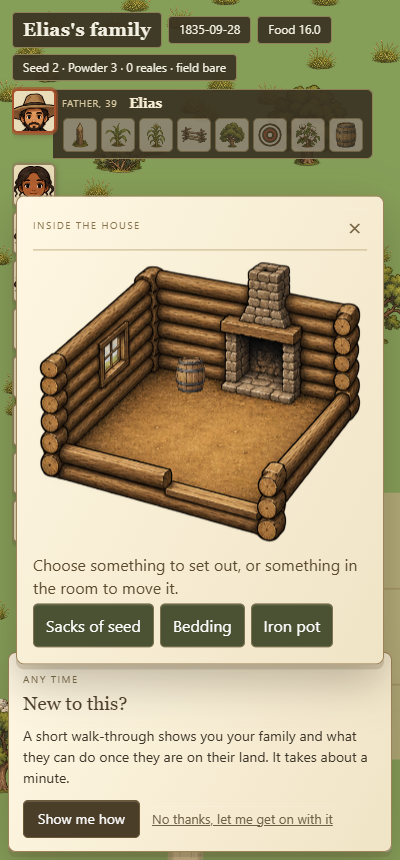
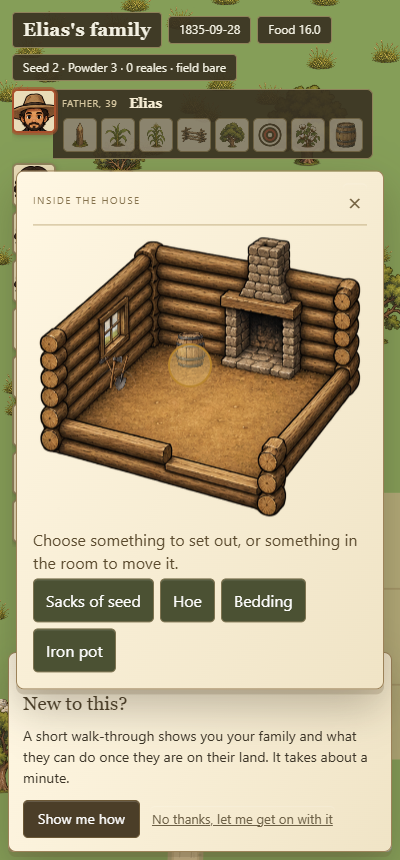
Inside the house: the wagon's tools can be set out, and a saddlebag has its own rooms
The five wagon tools (hoe, felling axe, broadaxe, froe, auger) are offered and placeable,
drawn as the equipment sheet's tools sprite (stand-in). A two-pen plot with no passage is
now a saddlebag interior with ten spots of its own and no passage, drawn on the dog-run's
picture (stand-in). Both listed under Stand-ins in use with a written-out art request.
The browser proof sets the felling axe under the window. No save version moved.

Changed region(s): [[0.03, 0.1814, 0.96, 0.8163]]

diff --git a/public/interior.js b/public/interior.js
@@ -31,7 +31,8 @@ export function renderInterior(root, interior, { title, readOnly = false, send, 
   const stage = el('div', null, 'interior-stage');
   const canvas = el('canvas', null, 'interior-canvas');
   const width = Math.min(640, Math.max(280, (root.clientWidth || 640) - 36));
-  const wide = interior.kind === 'dog-run';
+  // The dog-run's picture is wide; the saddlebag is drawn on it too (stand-in: sim/interior-data.mjs).
+  const wide = room.sprite === 'interior-dog-run';
   // The picture fills the stage's width. It is drawn from its anchor (its feet, off centre), so the anchor is placed where
   // the picture's own box puts it; the spots are fractions of that same box (sim/interior-data.mjs).
   const frame = spriteFrame(room.sprite) || { w: 1, h: wide ? 0.44 : 0.87, anchorX: 0.5, anchorY: 0.93 };

diff --git a/HISTORY.md b/HISTORY.md
@@ -183,7 +183,7 @@ These are design declarations, not historical claims needing an invented citatio
 | **HIST-TEX-046** | DOCUMENTED | **Brazoria stood at Old Town, on the bank, not at the modern town** (map moved 2026-09-16, `scripts/build-colonies-map.mjs`). The 1835 town is Old Town Brazoria, its grid lying square along the Brazos (bearing 133.7°), with Market × Main — the Mills brothers' corner, where their store was built out over the river as the steamboat landing — measured at 29.05593 N, 95.56016 W from two street centrelines; the official point (29.04441, −95.56911) is the modern town about a mile inland. Sources: `docs/town-research/brazoria.md` §2.4, §7.1 (OSM centrelines; the Brazoria Heritage Foundation's account of the Mills store). | The map every class is dealt on; `tests/colonies-map.test.mjs`. |
 | **FIC-GONZ-041** | **FICTIONAL FOR GAMEPLAY** | **The storming of Béxar as built** (2026-09-16, `sim/army.mjs`, `sim/directors.mjs`, `docs/COLONIES.md` §6l). Decided by the owner by multiple choice (§7c). Invented here: that on the morning of December 4 each played volunteer is asked on their own card whether they stay in camp or go home for the winter, and families nobody plays stay about 60 in 100; that each volunteer still in camp is asked whether they go in with Milam (families nobody plays about 40 in 100) and, on December 8, each still at the camp whether they go in with the companies sent from it (about 20 in 100); that a question stays open at least six hours and the calendar slows to the hour while a played family has one open; that the fight is resolved at the white flag, not day by day; each fighter's fate, rolled on its own from the seed at 2 in 100 killed and 8 in 100 wounded (the record's 1.7% and 7–9% of those who went in, `HIST-TEX-042`, rounded), weighted by hidden strength and health, the camp unhurt; the grades of wound (1 in 8 slight, half severe, 3 in 8 dangerous), their mending times (three days, three weeks, two months), a lasting mark on 4 in 10 dangerous wounds and a later death, rolled on its own, for about 15 in 100 of them on December 12 (the record: about 3 of 23 wounds fatal); that there is no limit on how many a class loses, in the fight or of wounds after (owner's correction, 2026-09-16, replacing the earlier cap of one death a battle); that the badly wounded lie at Béxar and cannot travel until they mend; the hours given to the dated days (winter quarters 6 a.m., Milam's call 6 p.m., the assault 5 a.m., the reinforcement 6 a.m. and Ugartechea 6 p.m. on the 8th, the flag 7 a.m. on the 9th); that every family hears the wrong express late on December 8 and the victory on December 15, however far away; that everybody still in the army starts home on December 14; and the woman's glory penalty, as at Concepción, for a woman who dies of a wound. |
 | **FIC-GONZ-042** | **FICTIONAL FOR GAMEPLAY** | **The towns drawn** (2026-09-16, `sim/town-layouts.mjs`, `docs/TOWNS.md` §5b), from the layout sketches in `docs/town-research/` for all fourteen: San Felipe, Victoria, Mina, Matagorda, Columbia and Liberty, then (the same day) Washington, Brazoria, Velasco, Harrisburg, Anahuac, Nacogdoches, Refugio and Goliad. Measured in that research and used as measured: the bearings of the surviving grids, the street modules and positions, the positions of the public squares, the documented blocks (Mina's stockade block), the marker that ties Liberty's frame to the ground, the measured origins of Washington, Brazoria, Velasco, Harrisburg, Anahuac, Nacogdoches, Refugio and Goliad, the surveyed quadrangle of La Bahía, the diameter of Fort Velasco, and the positions of Sterne's and Durst's houses and the Espíritu Santo mission. Invented, as the research marks them: San Felipe's whole frame and its orientation (turned here to face the Brazos); every building position finer than a block; every building's height; the count of ordinary houses (the research's reasoned figures) and their lots; which documented building a trade is kept in where the research names only the building (White's, Linn's, Gazley's, Kelsey's stores; Stewart's drug store for the doctor; Fitchett & Gill's tavern); that every other trade keeps one of the ordinary houses; that each anchor but Liberty's puts the town's central documented feature on the official point; that buildings are drawn four times their height; every wall's breaches (Goliad's number and places; that it was breached is documented); Fort Velasco's gaps; the scatters of jacales, huts and cabins at Goliad, Refugio, Nacogdoches and Anahuac; and that Brazoria's buildings may stand as near as 100 ft to the river's modern centreline. | The towns a family visits; where each keeper stands (`sim/shops.mjs` `placesInLayout`). |
-| **FIC-GONZ-043** | **FICTIONAL FOR GAMEPLAY** | **Inside the house** (2026-09-16, `sim/interior.mjs`, `docs/SETTLING_IN.md` §7.2). Decided by the owner by multiple choice. Invented here: the marked places in each room and their names; that any thing may stand in any place; that a family sets out each thing it has once; that a barrel stands for all the provisions and a sack for all the seed, however many came; and that where things stand changes nothing. Nothing about 1835 is asserted by where a student puts the bedstead. | The interior view. |
+| **FIC-GONZ-043** | **FICTIONAL FOR GAMEPLAY** | **Inside the house** (2026-09-16, `sim/interior.mjs`, `docs/SETTLING_IN.md` §7.2). Decided by the owner by multiple choice. Invented here: the marked places in each room and their names; that any thing may stand in any place; that a family sets out each thing it has once; that a barrel stands for all the provisions and a sack for all the seed, however many came; that the wagon's tools may be set out like its goods (2026-09-16, drawn as stand-in art); that a saddlebag's rooms are its two pens with a hearth, back wall, window, middle and door each and no passage (a period form, `sim/houseplot.mjs`, but its spots and names are invented and drawn on the dog-run's picture until its own is delivered); and that where things stand changes nothing. Nothing about 1835 is asserted by where a student puts the bedstead. | The interior view. |
 | **FIC-GONZ-038** | **FICTIONAL FOR GAMEPLAY** | **The shops of the towns** (2026-09-16, `sim/shops.mjs`, `docs/TOWNS.md`). That every town has trades, core everywhere and extras in the larger towns, kept by invented people, is the owner's decision of 2026-09-16. Documented, from `docs/town-research/`: Brazoria's 1831 trades (blacksmith, gunsmith, carpenters, doctors, cobblers, weaver, tannery, stores); San Felipe's taverns, hotel and blacksmith shop; Columbia's hotel and tavern; Mina's remembered hotel and gunsmith. **Invented**: Gonzales's full street (no 1835 Gonzales trade list was found); which trades stand at each other settlement; every keeper and name; every price in coin and food; every effect (tools, five powder, a rifle true for ten shots, the doctor's cure, the tavern's rest and public news, hides from a deer, shoes and saddle on weariness, the wagon's speed, the miller's fifth, the weaver's bale and blankets); and the keepers' purses. |
 | **FIC-GONZ-037** | **FICTIONAL FOR GAMEPLAY** | **Furniture and the carpenter** (2026-09-16, `sim/furniture.mjs`, `docs/SETTLING_IN.md` §6.1). That furniture is made at home or bought from a carpenter in town, with small effects, is the owner's decision of 2026-09-12. Invented here: the five pieces and one of each; the tools, work, coin and food prices; each effect (bedstead and benches on rest, a table on food eaten, shelves on spoilage, a cradle on a parent's heavy work with a baby under two at home, which is otherwise a quarter slower); that effects need a roof except the cradle's; that a piece takes a trip to the timber for a small tree; and the carpenters, Anselmo Lozano of Gonzales and one per settlement, invented on the terms of `FIC-GONZ-009`. `HIST-GONZ-027` ("nothing for show, but all for use"; a table set with wooden platters) is the tone, not the source of any number. |
 | **FIC-GONZ-036** | **FICTIONAL FOR GAMEPLAY** | **How a family looks** (2026-09-16, `sim/appearance.mjs`, `docs/SETTLING_IN.md` §7.1). That parents choose and children take after them is the owner's decision of 2026-09-12. Invented here: the seven skin tones, seven hair colours and seven clothing colours offered and their words; that a man may wear a hat or a beard and a woman a bonnet or pinned hair; that a child's skin falls within the parents' range, their hair from one parent and their clothes in one parent's colour; that grey hair is dealt only to a parent of forty or more. No claim is made that any of it describes any people of the colonies, and nothing in the game reads it (`VISION.md` §15). |

diff --git a/docs/ART_REQUESTS.md b/docs/ART_REQUESTS.md
@@ -27,7 +27,8 @@ does not have:
 | A person is drawn as the nearest figure by sex and age: a woman or girl as `teal`, a boy as `blue`, a man as `elder`; the principal in `rust` whoever they are, including a mother | `castVariant` in `public/motion.js` | Request 2026-09-12, priority 2 — the second cast | `rust-woman` for a mother who is principal, `indigo` and `teal` for women, `ochre` and `elder` for men, `blue-girl` and `blue` for adolescents |
 | A child in an unavailable action pose is a grown figure drawn smaller (90% at 10–17, 70% at 5–9, 55% at 2–4, 45% an infant). Idle, cardinal walking, rest and injured-rest use delivered `girl`, `boy`, `smallchild` and `infant` art | `CHILD_POSES` and `entityClip` in `public/motion.js` | Request 2026-09-12, priority 1 — children | Any later child-specific action poses. **Keep the scaling**: the delivered sheets fill their cells and need it |
 | A person's appearance - a parent's chosen, a child's taken after the parents - is shown only in words in the family book ("olive skin, black hair, rust clothes, a beard"); the figure on the map is still chosen by sex and age | `public/appearance.js`, `sim/appearance.mjs` | Request below — layered people art | Layered or palette-swappable sheets for the whole cast |
-| A saddlebag house's interior is the dog-run's two pens and passage; the wagon's tools cannot be set out | `sim/interior-data.mjs` (`INTERIOR_OF`, `INTERIOR_ART`), drawn by `public/interior.js` | Request 2026-09-12 (second) — interiors and furnishings | a saddlebag interior (two pens round a central chimney); the hoe, felling axe, broadaxe, froe and auger as interior pieces |
+| A saddlebag house's interior is drawn on the dog-run's picture (`interior-dog-run`, drawn wide), with its own ten spots measured there — by each hearth at the outer ends where that picture draws them, each back wall, window, pen and door — and nothing set in the passage the picture shows | `INTERIORS.saddlebag` in `sim/interior-data.mjs`, drawn by `public/interior.js` | Request 2026-09-12 (second) — interiors and furnishings: a saddlebag interior | `interior-saddlebag`; re-measure the spots on it, the hearths at the central chimney |
+| Every wagon tool set out in the house (hoe, felling axe, broadaxe, froe, auger) is the equipment sheet's `tools` (a hatchet, an axe and a spade leaning together), told apart only by its name, the long-handled ones drawn larger | `INTERIOR_ART` `tool:*` in `sim/interior-data.mjs`, drawn by `public/interior.js` | Request 2026-09-12 (second) — interiors and furnishings: the wagon's tools | `home-hoe`, `home-felling-axe`, `home-broadaxe`, `home-froe`, `home-auger` |
 | Five priority tree kinds use delivered size-specific art: pine, cedar, mesquite, live oak and elm. Shortleaf temporarily shares loblolly art; post oak, blackjack and the remaining hardwoods still use their nearest original broadleaf tree | `KINDS` picture in `sim/woods.mjs`, drawn by `drawGroundDetail` in `public/app.js` | Request 2026-09-15 — the trees of the colonies | `post-oak` and `blackjack` at three sizes; remaining species-specific hardwoods are later breadth |
 | Anybody of a family riding the family horse is their own figure's idle pose (`seatedClip`), facing the way they go, cut off below the waist and drawn over the back of the family's walking horse (`horse-walk`, `-n`, `-s`); the horse is not drawn again. It replaced the courier rider on 2026-09-16, which read as a stranger on the horse | `seatOf`, `seatedClip`, `seatLayout` in `public/motion.js`; `drawSeated` in `public/app.js` | Request 2026-09-14 — family members on horseback | Each cast figure mounted on the family's chestnut, walking in four directions |
 | Whoever drives the ox and wagon is their own figure's idle pose, cut off below the waist, sitting at the front of the side-view wagon (`wagon-travel`) with the ox (`ox-walk`, `-n`, `-s`) ahead; the ox and wagon are not drawn again. Going north or south the wagon stays side-on and the ox is above or below it | `wagonDriverId`, `seatOf`, `seatLayout` in `public/motion.js`; `drawSeated` in `public/app.js` | Request 2026-09-16 — driving the ox wagon | An ox team hitched to the wagon with a seated driver, in four directions, for every cast figure |
@@ -273,7 +274,7 @@ legs astride and no hands on the reins.
 
 ## Request 2026-09-12 (second) — settling in: houses, interiors, furnishings, and people whose looks can be chosen
 
-**Status: houses delivered and in use 2026-09-14** (`houses-settling`: the four houses and their `-site`, `-walls` and `-roofing` stages, drawn by the stage the server reports). **Interiors and furnishings delivered 2026-09-14** (`home-interiors`, `home-furnishings`), registered for the interior view, which is not built. Layered people still open. Specified in [SETTLING_IN.md](SETTLING_IN.md); the exact sheets are to be written
+**Status: houses delivered and in use 2026-09-14** (`houses-settling`: the four houses and their `-site`, `-walls` and `-roofing` stages, drawn by the stage the server reports). **Interiors and furnishings delivered 2026-09-14** (`home-interiors`, `home-furnishings`), in use in the interior view since 2026-09-16; a saddlebag interior and the wagon's tools still open (below). Layered people still open. Specified in [SETTLING_IN.md](SETTLING_IN.md); the exact sheets are to be written
 into this request when that chapter's build reaches them, in the contract format of the request below.
 
 - **Layered people.** Students now choose what parents look like (skin tone, hair colour, clothing colour,
@@ -333,7 +334,25 @@ into this request when that chapter's build reaches them, in the contract format
   - **Replaces:** the stand-ins listed above. Check: every house and stage draws, and the family figures stand
     in front of and behind it correctly in the back-to-front sort.
 - **Interiors.** A single-pen interior, a dog-run's two pens and breezeway, and a jacal interior, drawn as
-  rooms a student can place furniture in.
+  rooms a student can place furniture in. **Delivered 2026-09-14 and in use since the interior view was built 2026-09-16**
+  (`SETTLING_IN.md` §7.2). **Still open, written out 2026-09-16 — a saddlebag interior and the wagon's tools; stand-ins are
+  drawing both (listed above):**
+  - **Why.** A saddlebag house (two pens either side of one big central chimney, a fireplace in each, `sim/houseplot.mjs`)
+    has its own rooms but is drawn on the dog-run's picture, so a student sees a passage and end chimneys their house does
+    not have. The five tools that came in the wagon can be set out, but all five are one picture of a hatchet, axe and spade.
+  - **What.** `interior-saddlebag`: in the `home-interiors` style, camera, scale and cutaway exactly as `interior-dog-run`
+    (two round-log pens, front walls cut low, back walls with a window each), but the pens stand wall to wall around one
+    stone chimney at the centre with a fireplace opening into each pen, a door in each pen's front wall, and no passage.
+    Transparent, anchored at the base centre, a wide frame like the dog-run's. And, in the `home-furnishings` style and
+    scale, each standing or leaning on the floor as it would in a cabin: `home-hoe` (a broad-bladed grubbing hoe),
+    `home-felling-axe` (a long-handled axe), `home-broadaxe` (the wide, short-handled hewing axe), `home-froe` (the L-shaped
+    riving blade with its club), `home-auger` (a T-handled auger). Period tools only (`HIST-GONZ-027`/`028`).
+  - **How it plugs in.** Registered through `npm run build:art`; `INTERIORS.saddlebag.sprite` and the `tool:*` rows of
+    `INTERIOR_ART` in `sim/interior-data.mjs` name the frames. The saddlebag's spots are re-measured on the new picture
+    (fractions of its own box, at a thing's feet), the hearths moved to the central chimney; the spot ids stay, so saved rooms
+    still open.
+  - **Check.** `tests/interior.test.mjs` fails if a sprite named there is not in the atlas; in `npm run test:interior` a pot
+    set by each saddlebag hearth stands at a fireplace, and each tool is told apart from the others without its label.
 - **Furniture and brought goods.** Table, benches, bedstead, shelves, cradle; bedding, iron pot, chest,
   spinning wheel, clock, looking glass, crockery, rocking chair; a wagon camp.
 

diff --git a/HANDOFF.md b/HANDOFF.md
@@ -1,6 +1,6 @@
 # Claude handoff — Astra foundation
 
-**Inside the house, 2026-09-16 — SETTLING_IN step 7:** [§7.2](docs/SETTLING_IN.md), `FIC-GONZ-043`, [browser](docs/evidence/interior-browser.json). Decided by multiple choice: tap your own house on the map and its room opens; set furniture and the wagon's goods on marked spots (hearth, back wall, window, door …), move them or put them away; opens only once a house stands; the Host sees any family's room read only. Changes nothing in the world. `sim/interior-data.mjs` is shared with the page.
+**Inside the house, 2026-09-16 — SETTLING_IN step 7:** [§7.2](docs/SETTLING_IN.md), `FIC-GONZ-043`, [browser](docs/evidence/interior-browser.json). Decided by multiple choice: tap your own house on the map and its room opens; set furniture and the wagon's goods on marked spots (hearth, back wall, window, door …), move them or put them away; opens only once a house stands; the Host sees any family's room read only. Changes nothing in the world. `sim/interior-data.mjs` is shared with the page. Follow-up the same day: the wagon's tools can be set out too, and a saddlebag has its own two-pen rooms with no passage; both are `stand-in:` art (tools as `tools`, the saddlebag on the dog-run's picture), listed in [ART_REQUESTS.md](docs/ART_REQUESTS.md); the browser proof now sets the felling axe under the window.
 
 **Casualties at the record's rates, no cap, 2026-09-16:** owner: *"I disagree with the never more than one killed per battle per class ... Keep it inline with % of casualties from the actual battle (within reason, you're allowed to round)."* [COLONIES §7d](docs/COLONIES.md). **Before:** Concepción and the storming each allowed at most one death in a class (the likeliest roll won), and a later death from a wound at Béxar only if the fight had killed nobody. **Now** one rule, `rollFates(world, ids, { event, death, wound })` in `sim/army.mjs`, rolls each fighter on their own at the battle's documented share, weighted by frailty as `1 − (1 − rate)^frailty` (rate × frailty for small rates; a rate of 1 still kills the strongest, ready for the Alamo), with no limit per fight or class. Rates, rounded from the research: **Concepción 1 killed / 2 wounded in 100** (1 of ~92, 0–2 wounded); **Béxar 2 / 8 in 100** for those who went in (1.7%, 7–9%), reserve unhurt; a dangerous wound's later death about 15 in 100, each rolled, all of them dying on December 12. The Grass Fight is unchanged (nobody killed). The storming's unhurt sentence now says "the storming of Béxar" like the other fates (a test matched on it). `FIC-GONZ-039`, `-041` amended. Tests replaced: crowds of middling people (frailty exactly 1) die and are wounded within a band of the documented rate over thousands of fighters, a crowd loses more than one in some fight, the frail die more than 1.8× the hardy, Espada and the camp unhurt, every rolled later death comes (including on top of a death in the fight, and several in one class) at about 15 in 100, and `rollFates` kills everybody at a rate of 1. Each proven by injection: the old cap in each fight, the old later-death cap, doubled/halved rates for each battle's killed and wounded and the later death, frailty removed, the reserve rolled, and the multiplied weighting.
 

diff --git a/TECH.md b/TECH.md
@@ -106,7 +106,7 @@ Which chores a person may be given, and the reason for any that are refused, are
 
 **Furniture** (2026-09-16, `docs/SETTLING_IN.md` §6.1). `sim/furniture.mjs`: `FURNITURE`, `PIECES`, `makeRefusal`, `buyRefusal`, `wanting`, `furnitureShares(household, housed)` (read by `advanceRoutine` for food eaten, spoilage and rest at home), `mindingBaby` (read by the `work` step pacing in `advanceChore`, `BABY_BURDEN` 1.25 on heavy home work), `furnish`, `furnitureInvalid`. `sim/chores.mjs`: chores `make-furniture` (ask first, then `when`-gated timber trip, work and `furnish` step) and `buy-furniture` (town, `trade: 'furniture'`, `carpenter-counter`); `askAvailability` now accepts a `why` function. `sim/town.mjs`: `town-carpenter` in `RESIDENTS` and `CARPENTERS` per settlement, dealing in `furniture`. Hidden from `choresFor` while arriving or fully furnished (payload budget).
 
-**Inside the house** (2026-09-16, `docs/SETTLING_IN.md` §7.2). `sim/interior-data.mjs` (no imports; served as `/interior-data.js`): `INTERIORS` (sprite and `[id, label, x, y]` spots as fractions of the picture), `INTERIOR_OF`, `INTERIOR_ART` (`[sprite, height share, name]`). `sim/interior.mjs`: `interiorOf` (from `landView`; null while camping), `interiorItems`, `placeRefusal`, `placeItem` (action `place-item`), `interiorProjection` (`land.interior` for the family, `overview.lands[].interior` for the Host), `interiorInvalid`. `public/interior.js` `renderInterior`; `public/app.js` records `housesDrawn` per frame, `houseAt` on a tap, `renderInteriorPanel`. Tests `tests/interior.test.mjs`; proof `scripts/interior-browser-proof.mjs`.
+**Inside the house** (2026-09-16, `docs/SETTLING_IN.md` §7.2). `sim/interior-data.mjs` (no imports; served as `/interior-data.js`): `INTERIORS` (sprite and `[id, label, x, y]` spots as fractions of the picture; `saddlebag` a stand-in on the dog-run's picture), `INTERIOR_ART` (`[sprite, height share, name]`; the tools a stand-in `tools`). `sim/interior.mjs`: `interiorOf` (from `landView`; null while camping; a two-pen plot with no `passage` piece is `saddlebag`), `interiorItems`, `placeRefusal`, `placeItem` (action `place-item`), `interiorProjection` (`land.interior` for the family, `overview.lands[].interior` for the Host), `interiorInvalid`. `public/interior.js` `renderInterior`; `public/app.js` records `housesDrawn` per frame, `houseAt` on a tap, `renderInteriorPanel`. Tests `tests/interior.test.mjs`; proof `scripts/interior-browser-proof.mjs`.
 
 **How a family looks** (2026-09-16, `docs/SETTLING_IN.md` §7.1). `sim/appearance.mjs`: `SKIN`, `HAIR`, `CLOTHING`, `HEAD`; `appearanceOf(world, entity)` (a parent's `entity.appearance` over seeded defaults; a child derived from the parents on every call); `looksWords`; `choicesFor`; `appearanceRefusal`/`setAppearance` for the action `set-appearance` (a lobby action, handled before the who-can-act rules); `appearanceInvalid` in `validateWorld`. `familyProjection` adds `appearance`, `looks`, and for a parent `choices`/`chosen`. Nothing else in `sim/` imports it — `tests/appearance.test.mjs` proves inertness behaviourally. Client: `public/appearance.js` (`renderLooks`, `bindLooks`) into `#family-looks`, served at `/appearance.js`.
 

diff --git a/docs/SETTLING_IN.md b/docs/SETTLING_IN.md
@@ -310,11 +310,16 @@ stands**. `FIC-GONZ-043`.
 
 - **The rooms** (`sim/interior-data.mjs`, pure data served to the page as `/interior-data.js`): the delivered
   `home-interiors` pictures — round-log and hewn-log cabins and the jacal with eight spots each (by the hearth, against the
-  back wall, under the window, in the middle, by the door …), the dog-run's two pens and passage with ten. A house raised
-  with two pens (dog-run or saddlebag) uses the dog-run's; a house chosen whole with no layout uses the round-log's.
+  back wall, under the window, in the middle, by the door …), the dog-run's two pens and passage with ten. A saddlebag (a
+  house raised with two pens and no passage between them, planned or free-built) has its own ten — by each hearth, against
+  each back wall, under each window, in each pen, by each door — and no passage; `stand-in:` it is drawn on the dog-run's
+  picture, its spots measured there, until an `interior-saddlebag` is delivered (`docs/ART_REQUESTS.md`). A house chosen
+  whole with no layout uses the round-log's.
 - **What can be set out** (`sim/interior.mjs` `interiorItems`): the family's furniture (`home-furnishings` art), and from
   the wagon the bedding, iron pot, chest, spinning wheel, books, mosquito bars, tinware and chairs, and a barrel of provisions
-  and a sack of seed. Each thing once, in one place. `ceiling:` the tools have no interior art and are not offered.
+  and a sack of seed, and its tools: hoe, felling axe, broadaxe, froe and auger. Each thing once, in one place.
+  `stand-in:` every tool is drawn as the equipment sheet's `tools` (a hatchet, an axe and a spade) until interior tool
+  pieces are delivered (`docs/ART_REQUESTS.md`). Powder and lead has no picture inside and is not offered.
 - **Action `place-item`** (`item`, `spot`; no spot puts it away): refused while camping, for a thing the family does not
   have, for a place the house does not have, or a place something else stands in (named). Moving a thing takes it from
   where it stood. Nothing is recorded in the story, and nothing in the world changes: furniture's effects come from owning it.

diff --git a/GAME.md b/GAME.md
@@ -248,7 +248,7 @@ At the end of this slice the game stops advancing and retains the world. Thomas 
 
 **Furniture makes the house work a little better.** A bedstead, a table, benches, shelves and a cradle can each be made at home — a trip to the timber for a small tree, and an afternoon's work with the right tools — or bought from the carpenter in town for coin or food. Each does one small thing once there is a roof over it, and says what before you choose: rest mends faster, the food goes further or keeps better, and with a cradle a parent with a baby at home works at full pace instead of a quarter slower. One of each.
 
-**Inside the house.** Once your house stands, tap it on the map and its room opens. Choose something your family has — the furniture you made or bought, or what came in the wagon: bedding, the iron pot, a chest, books, a barrel of provisions — and then a place for it: by the hearth, against the back wall, under the window, by the door. Tap something in the room to move it or put it away. It is your family's home to arrange; where things stand changes nothing else.
+**Inside the house.** Once your house stands, tap it on the map and its room opens. Choose something your family has — the furniture you made or bought, or what came in the wagon: bedding, the iron pot, a chest, books, a barrel of provisions, the axe or the hoe — and then a place for it: by the hearth, against the back wall, under the window, by the door. Tap something in the room to move it or put it away. It is your family's home to arrange; where things stand changes nothing else.
 
 **What your family looks like is yours to choose.** After the roll, the family book lets you choose each parent's skin tone, hair, the colour of their clothes, and a hat or beard for a man or a bonnet or pinned-up hair for a woman. The children take after their parents; you cannot choose for them. How anybody looks changes nothing else in the game. For now it shows in words in the book; the figures on the map will follow when the art arrives.
 
